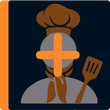
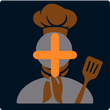
Nova função não finalizada para a página de cadastro: Adicionar uma foto de perfil (com animação de passar o mousie por cima e agora com JavaScript e imagens novas)

diff --git a/src/main/resources/templates/cadastro.html b/src/main/resources/templates/cadastro.html
@@ -23,7 +23,7 @@
         <form th:action="@{/cadastro}" th:object="${usuarioForm}" method="post">
             <div class="perfil-upload-wrap">
                 <label for="foto-upload" class="perfil-upload-label">
-                   <img th:src="@{/img/Ícone de Perfil (110 x 110 px).png}" alt="Ícone Padrão" class="img-padrao">
+                   <img th:src="@{/img/Ícone de Perfil Cadastro (110 x 110 px).png}" alt="Ícone Padrão" class="img-padrao">
                     <img th:src="@{/img/Adicionar Ícone de Perfil (110 x 110 px).png}" alt="Adicionar Foto" class="img-hover">
                 </label>
                 <input type="file" id="foto-upload" name="fotoPerfil" class="perfil-input-oculto" accept="image/*">